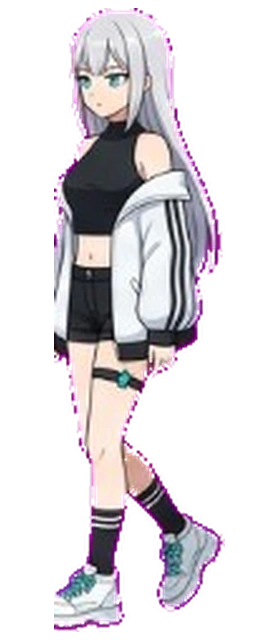
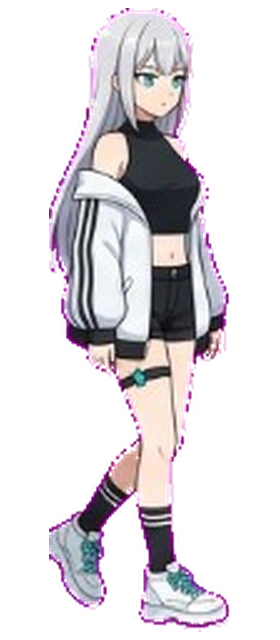
fix: slice walk frames top-left to right, then bottom row

diff --git a/frontend/web/src/components/AgentPresence.tsx b/frontend/web/src/components/AgentPresence.tsx
@@ -164,6 +164,9 @@ export function AgentPresence({ busy = false }: AgentPresenceProps) {
 
   const src = mode === "walk" ? `/brand/agent-walk-${frame}.webp` : "/brand/agent-presence.webp";
 
+  // Sprites face LEFT. facing: 1 = move right, -1 = move left.
+  const scaleX = facing >= 0 ? -1 : 1;
+
   return (
     <aside
       ref={stageRef}
@@ -180,7 +183,7 @@ export function AgentPresence({ busy = false }: AgentPresenceProps) {
       <div
         className="agentPresenceMover"
         style={{
-          transform: `translate3d(${x}px, 0, 0) scaleX(${facing})`,
+          transform: `translate3d(${x}px, 0, 0) scaleX(${scaleX})`,
         }}
       >
         <img
